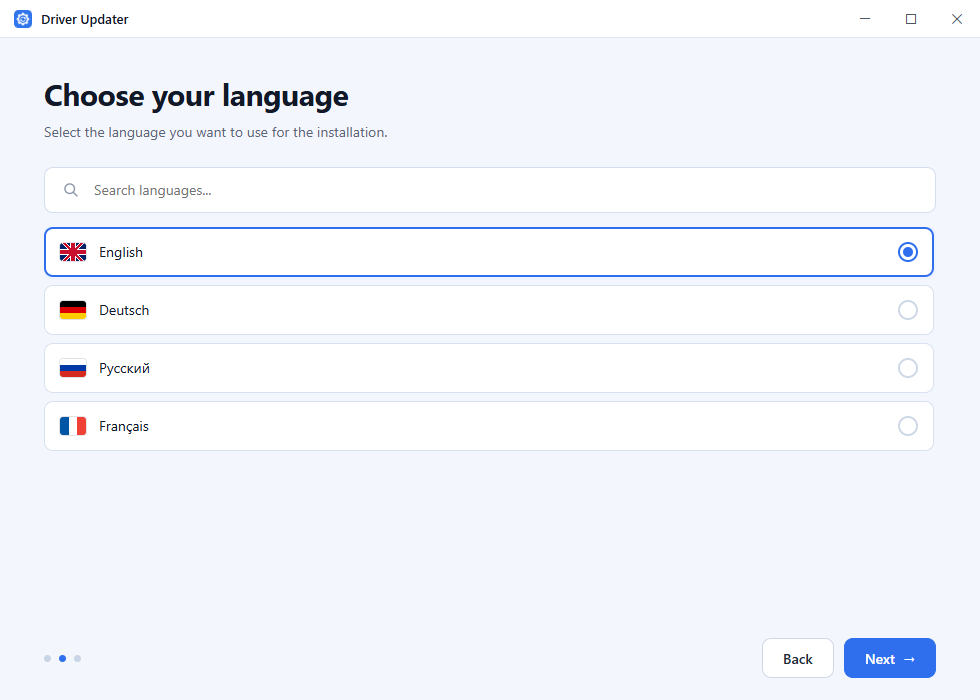
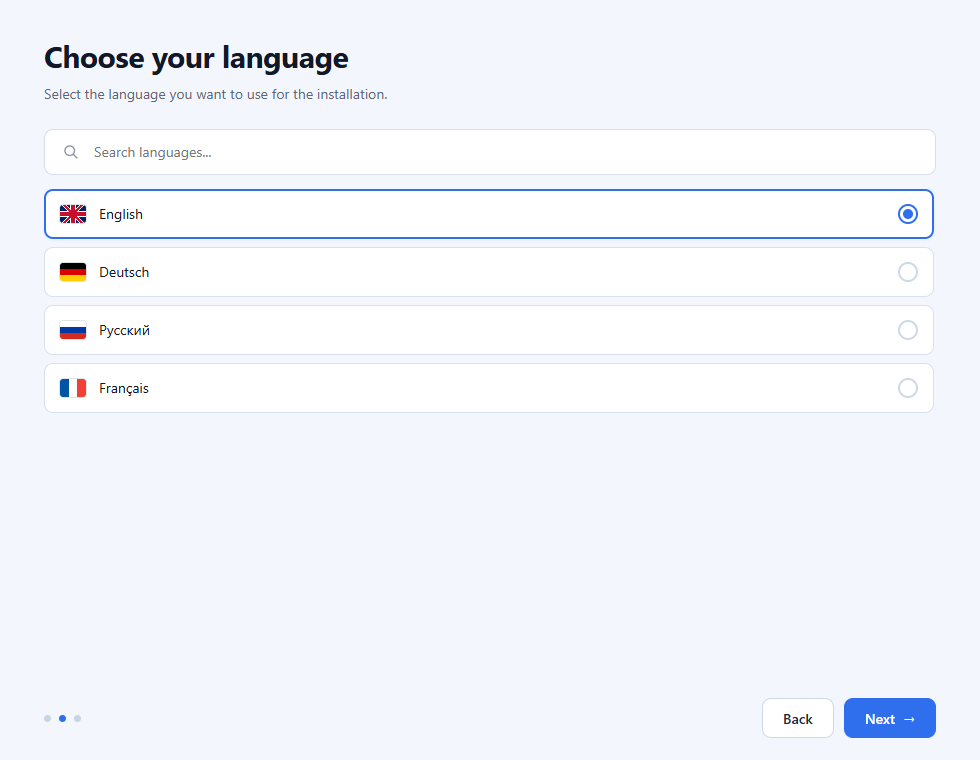
fix(setup): use a native titlebar and document every script
Let Windows draw the setup caption buttons, resize the wizard so the footer is not clipped, and list all developer scripts in the README.

diff --git a/installer/ui/styles.css b/installer/ui/styles.css
@@ -42,56 +42,6 @@ button {
     background: var(--background);
 }
 
-.titlebar {
-    display: flex;
-    align-items: center;
-    justify-content: space-between;
-    height: 38px;
-    flex: 0 0 38px;
-    padding-left: 14px;
-    background: var(--surface);
-    border-bottom: 1px solid var(--border);
-    user-select: none;
-}
-
-.titlebar-brand {
-    display: flex;
-    align-items: center;
-    gap: 9px;
-    font-size: 13px;
-    font-weight: 600;
-}
-
-.titlebar-brand img {
-    width: 18px;
-    height: 18px;
-    object-fit: contain;
-}
-
-.window-controls {
-    display: flex;
-    height: 100%;
-}
-
-.window-controls button {
-    width: 46px;
-    height: 100%;
-    border: 0;
-    background: transparent;
-    color: #4b5563;
-    font-family: 'Segoe MDL2 Assets', sans-serif;
-    font-size: 10px;
-}
-
-.window-controls button:hover {
-    background: #eef2f8;
-}
-
-.window-controls button[data-action='close']:hover {
-    background: #e81123;
-    color: #fff;
-}
-
 .wizard {
     position: relative;
     flex: 1;

diff --git a/installer/ui/index.html b/installer/ui/index.html
@@ -8,18 +8,6 @@
     </head>
     <body>
         <div class="setup-window">
-            <header class="titlebar" data-tauri-drag-region>
-                <div class="titlebar-brand" data-tauri-drag-region>
-                    <img src="assets/logo.png" alt="" />
-                    <span>Driver Updater</span>
-                </div>
-                <div class="window-controls">
-                    <button type="button" aria-label="Minimize" data-action="minimize">&#xE921;</button>
-                    <button type="button" aria-label="Maximize" data-action="maximize">&#xE922;</button>
-                    <button type="button" aria-label="Close" data-action="close">&#xE8BB;</button>
-                </div>
-            </header>
-
             <main class="wizard">
                 <section class="screen is-active" data-screen="welcome">
                     <div class="welcome-layout">

diff --git a/installer/ui/app.js b/installer/ui/app.js
@@ -90,15 +90,7 @@ document.addEventListener('click', async (event) => {
     const target = event.target.closest('button');
     if (!target) return;
     if (target.dataset.action === 'close') {
-        if (invoke) await invoke('close_setup');
-        return;
-    }
-    if (target.dataset.action === 'minimize') {
-        if (invoke) await invoke('minimize_setup');
-        return;
-    }
-    if (target.dataset.action === 'maximize') {
-        if (invoke) await invoke('toggle_maximize');
+        window.close();
         return;
     }
     if (target.dataset.next) {

diff --git a/installer/src-tauri/src/main.rs b/installer/src-tauri/src/main.rs
@@ -3,7 +3,7 @@
 use serde::{Deserialize, Serialize};
 use std::path::{Path, PathBuf};
 use std::process::Command;
-use tauri::{AppHandle, Emitter, Manager, Window};
+use tauri::{AppHandle, Emitter, Manager};
 
 #[derive(Debug, Deserialize)]
 #[serde(rename_all = "camelCase")]
@@ -18,25 +18,6 @@ struct InstallRequest {
 struct InstallProgress {
     percent: u32,
     stage: String,
-}
-
-#[tauri::command]
-fn minimize_setup(window: Window) {
-    let _ = window.minimize();
-}
-
-#[tauri::command]
-fn toggle_maximize(window: Window) {
-    let _ = if window.is_maximized().unwrap_or(false) {
-        window.unmaximize()
-    } else {
-        window.maximize()
-    };
-}
-
-#[tauri::command]
-fn close_setup(window: Window) {
-    let _ = window.close();
 }
 
 #[tauri::command]
@@ -205,9 +186,6 @@ fn write_first_run(request: &InstallRequest) -> Result<(), String> {
 fn main() {
     tauri::Builder::default()
         .invoke_handler(tauri::generate_handler![
-            minimize_setup,
-            toggle_maximize,
-            close_setup,
             choose_directory,
             install,
             finish_setup

diff --git a/scripts/README.md b/scripts/README.md
@@ -3,11 +3,19 @@
 These files are used by the release workflow and by maintainers. They are not
 bundled into the Windows installer and an end user never needs them.
 
+- `build-setup.ps1` builds the unified WebView2 setup wizard for one Windows
+  target, stages the matching MSI or NSIS payload next to it, and creates the
+  `artifacts/setup/<arch>` archive.
 - `package-windows.ps1` builds the portable and symbol archives after Tauri
   creates the MSI and NSIS bundles.
+- `smoke-msi.ps1` extracts and validates the MSI payload without installing the
+  running application.
+- `smoke-nsis.ps1` silently installs and uninstalls the NSIS payload to verify
+  the complete installer lifecycle.
 - `generate_icons.py` regenerates the application icon set from the supplied
   branding asset.
 - `check-version.mjs` verifies that the package, Cargo and Tauri versions match.
-- `check-locales.mjs` rejects new missing translation keys against `shared/locales-baseline.json`.
+- `check-locales.mjs` rejects new missing translation keys against
+  `shared/locales-baseline.json`.
 
 The installer contains only the compiled application and its frontend assets.
